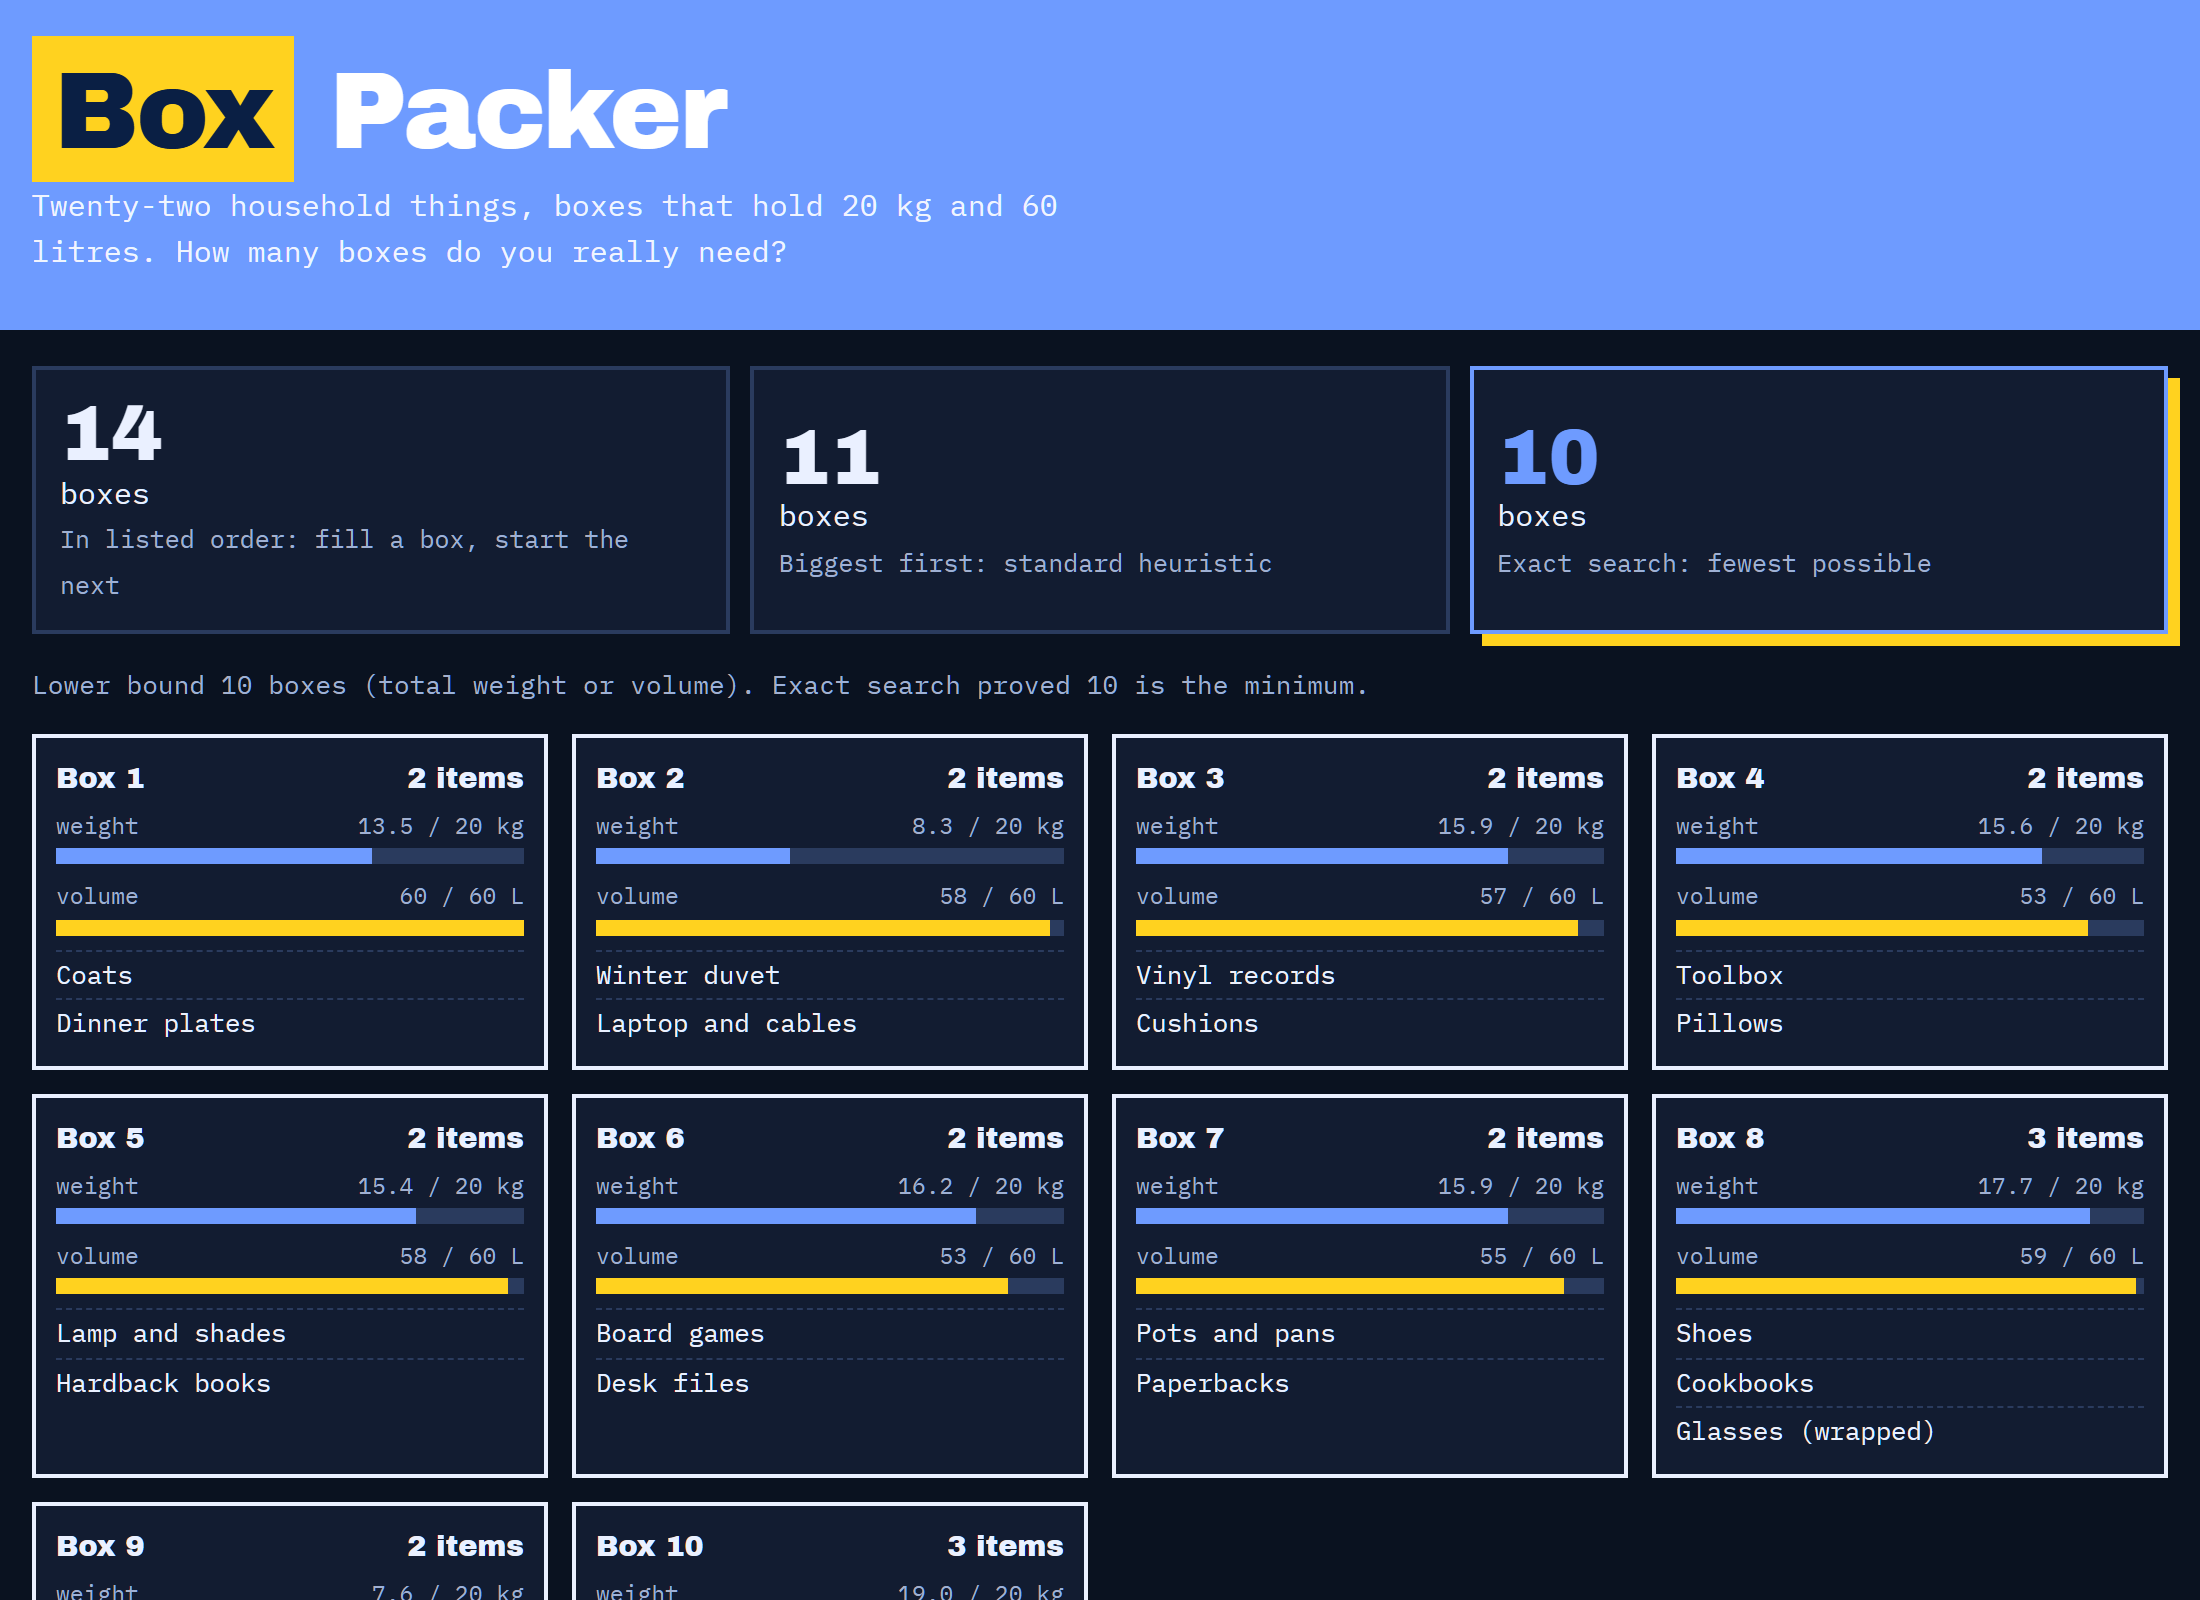
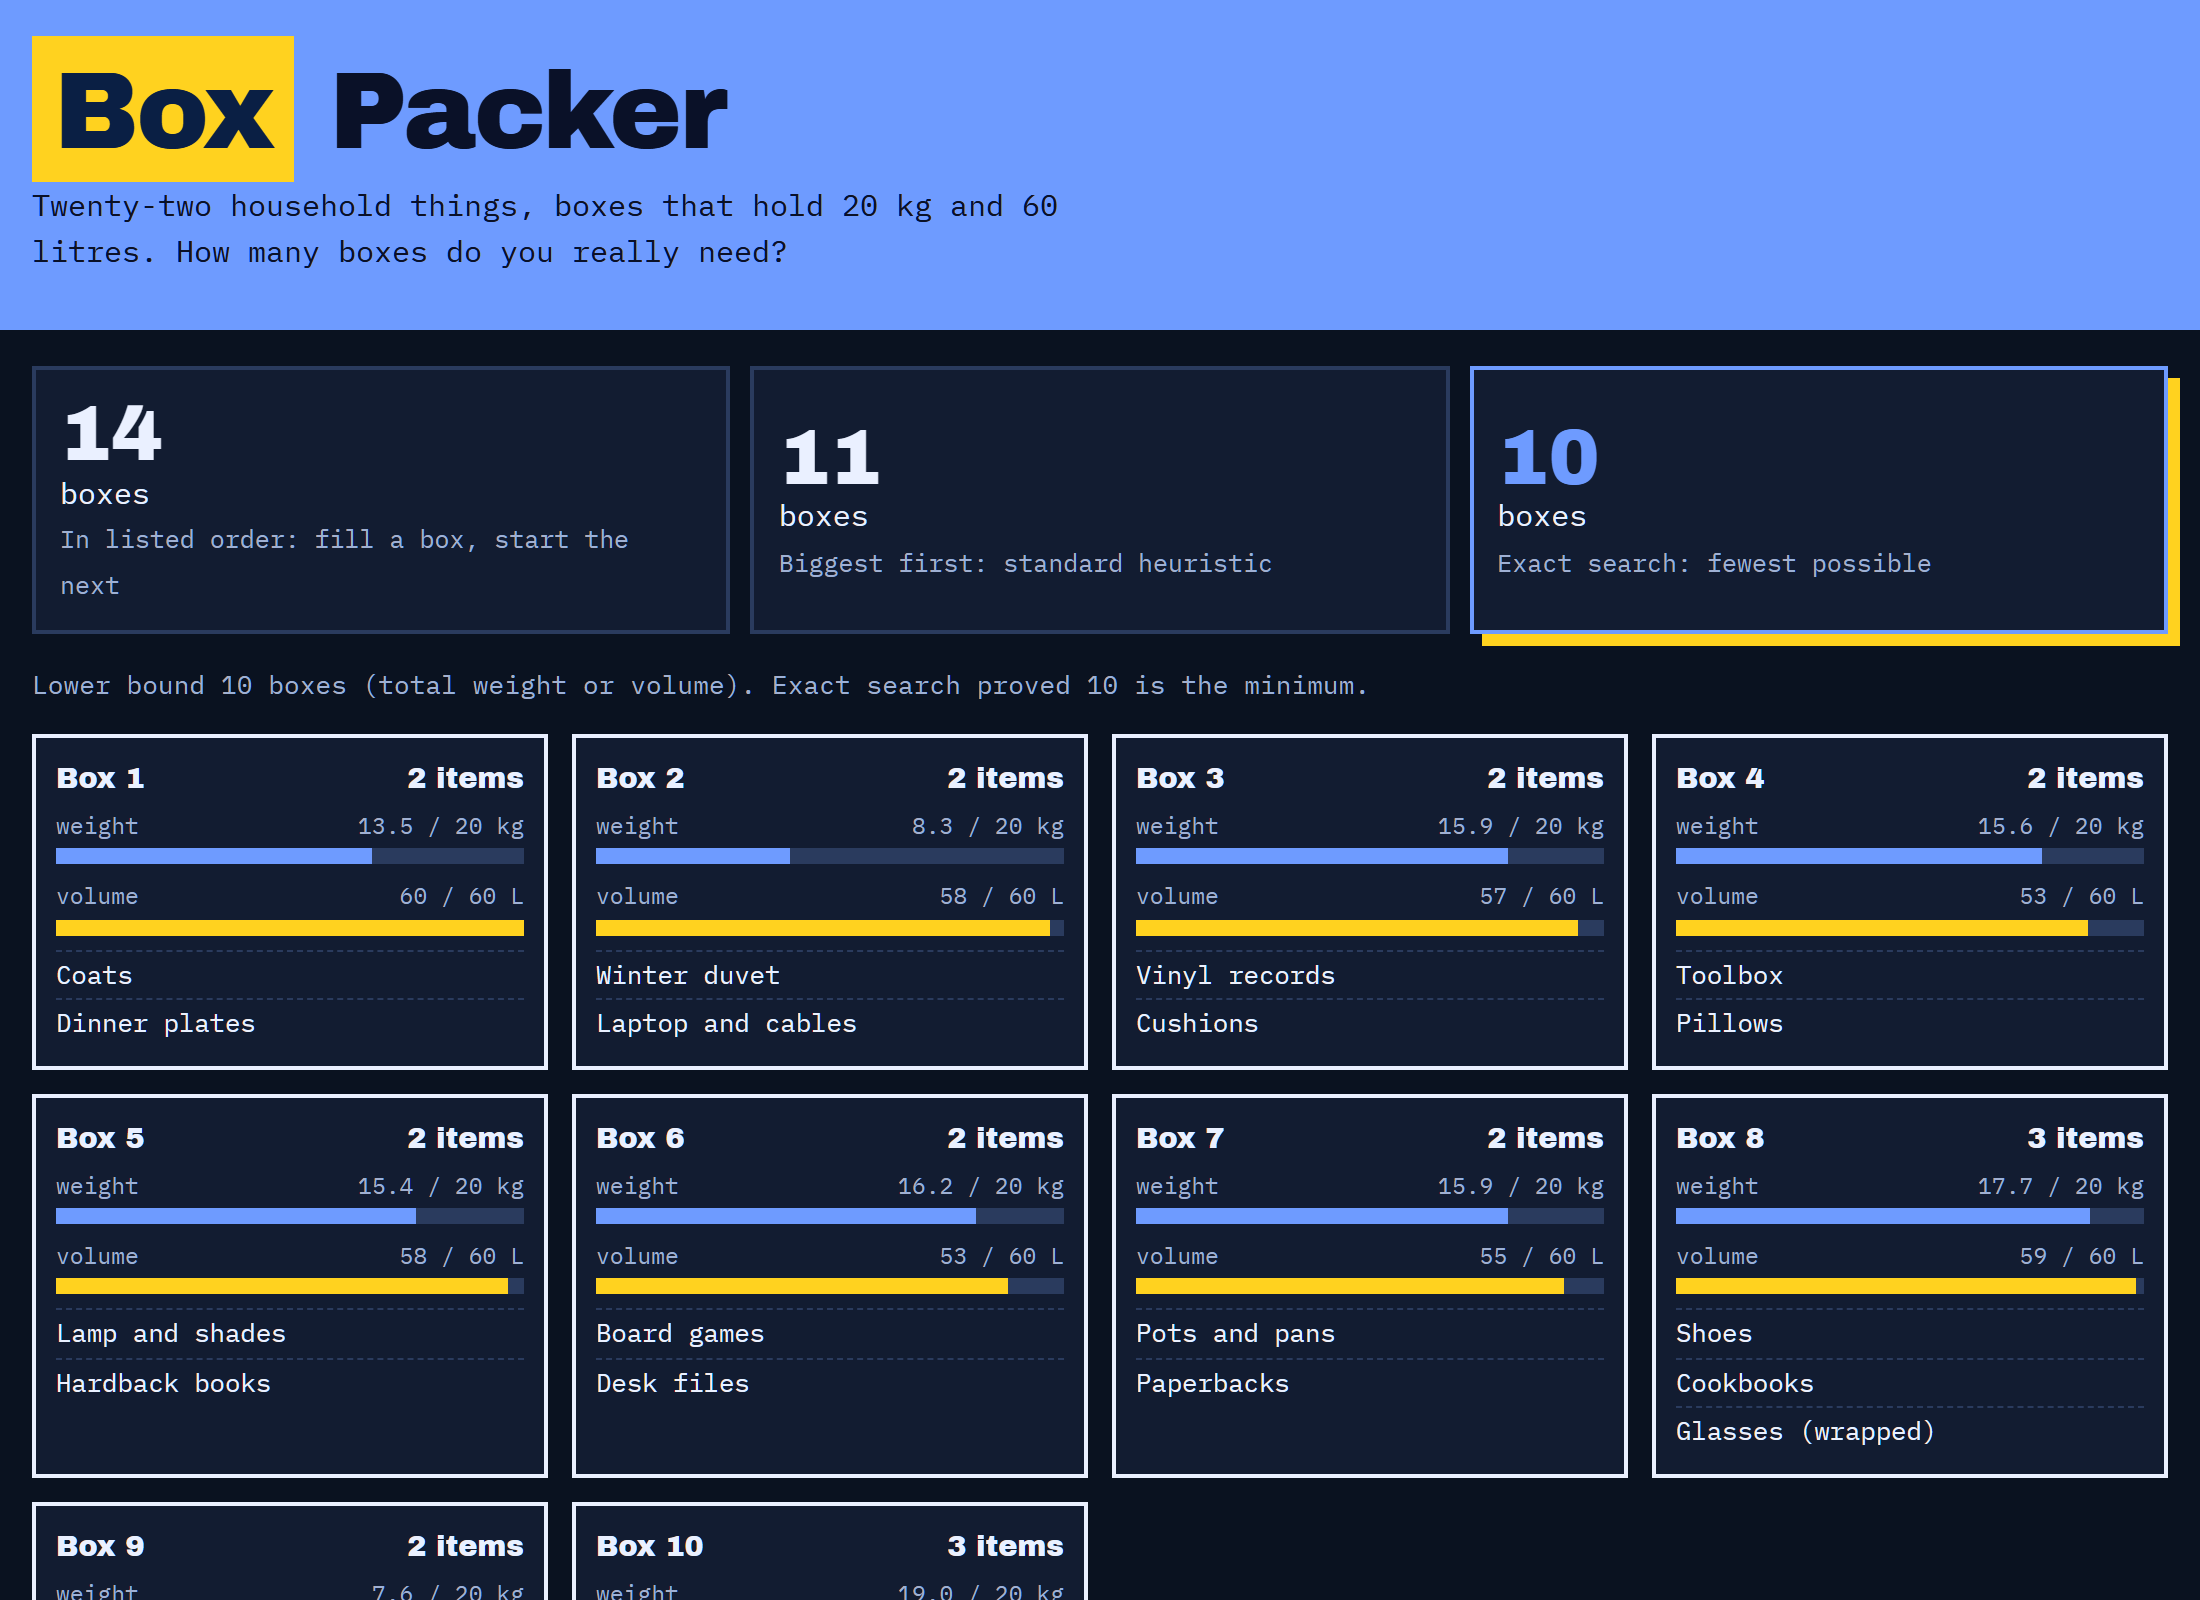
Fix subtitle contrast: flat-pack-packer

Changed region(s): [[0.0, 0.125, 0.3709, 0.1875], [0.1545, 0.0312, 0.34, 0.0938], [0.4018, 0.125, 0.4636, 0.1562]]

diff --git a/static/index.html b/static/index.html
@@ -20,6 +20,7 @@ main{max-width:1100px;margin:auto;padding:18px 16px 56px}
 ul{list-style:none;margin:6px 0 0;padding:0;font-size:.8rem}li{border-top:1px dashed var(--line);padding:2px 0}
 .note{color:var(--mute);font-size:.82rem;margin:0 0 14px}
 @media(max-width:560px){.tab b{font-size:1.8rem}}
+@media(prefers-color-scheme:dark){header{color:#0a1128}header p{opacity:1}}
 </style></head><body>
 <header><div><h1><span>Box</span> Packer</h1><p>Twenty-two household things, boxes that hold 20 kg and 60 litres. How many boxes do you really need?</p></div></header>
 <main><div class="tabs" role="tablist" id="tabs"></div><p class="note" id="note" aria-live="polite"></p><div class="grid" id="grid"></div></main>

diff --git a/tests/test_all.py b/tests/test_all.py
@@ -94,3 +94,7 @@ def test_api_validation():
 def test_index_has_pack_error_text():
     assert "Could not pack the boxes" in c.get("/").text
     assert "if(!R)return" in c.get("/").text
+
+
+def test_dark_header_subtitle_contrast_rule():
+    assert "header p{opacity:1}" in c.get("/").text
